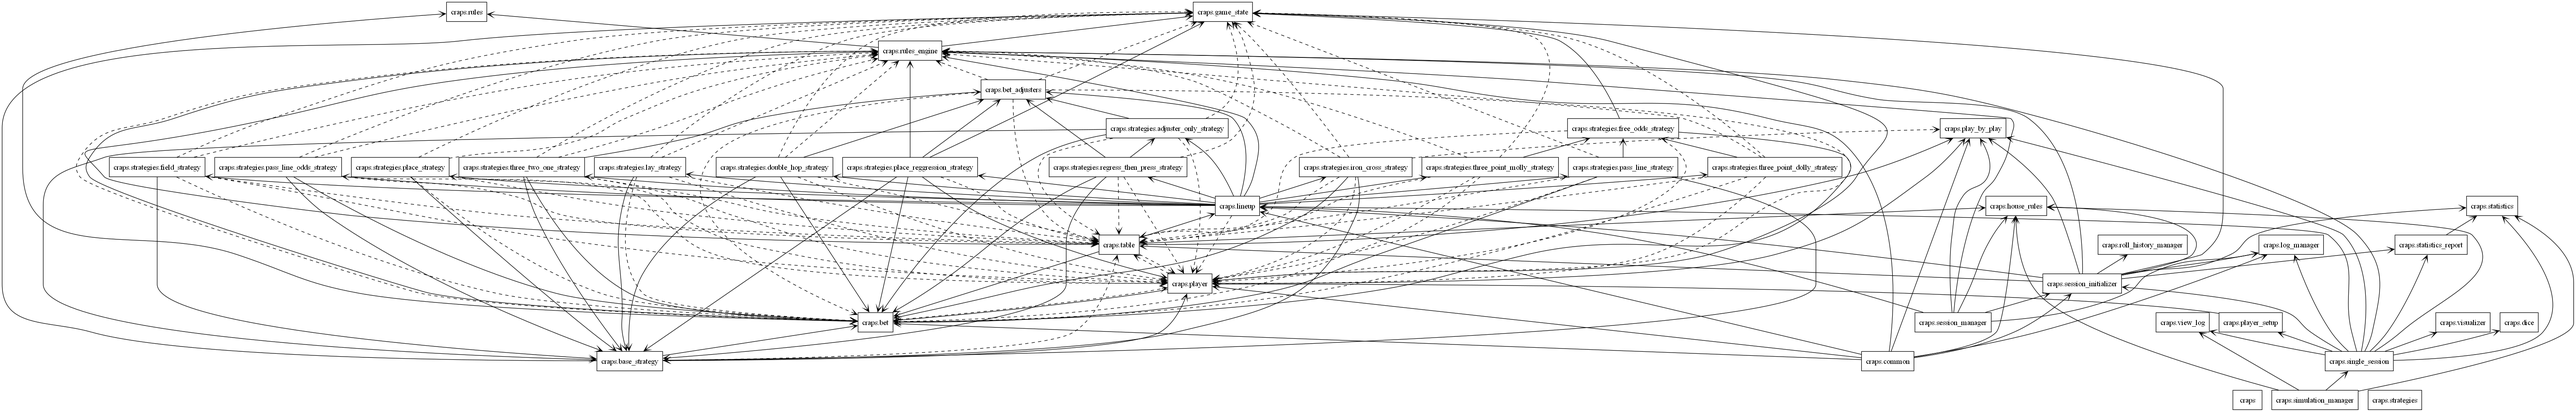
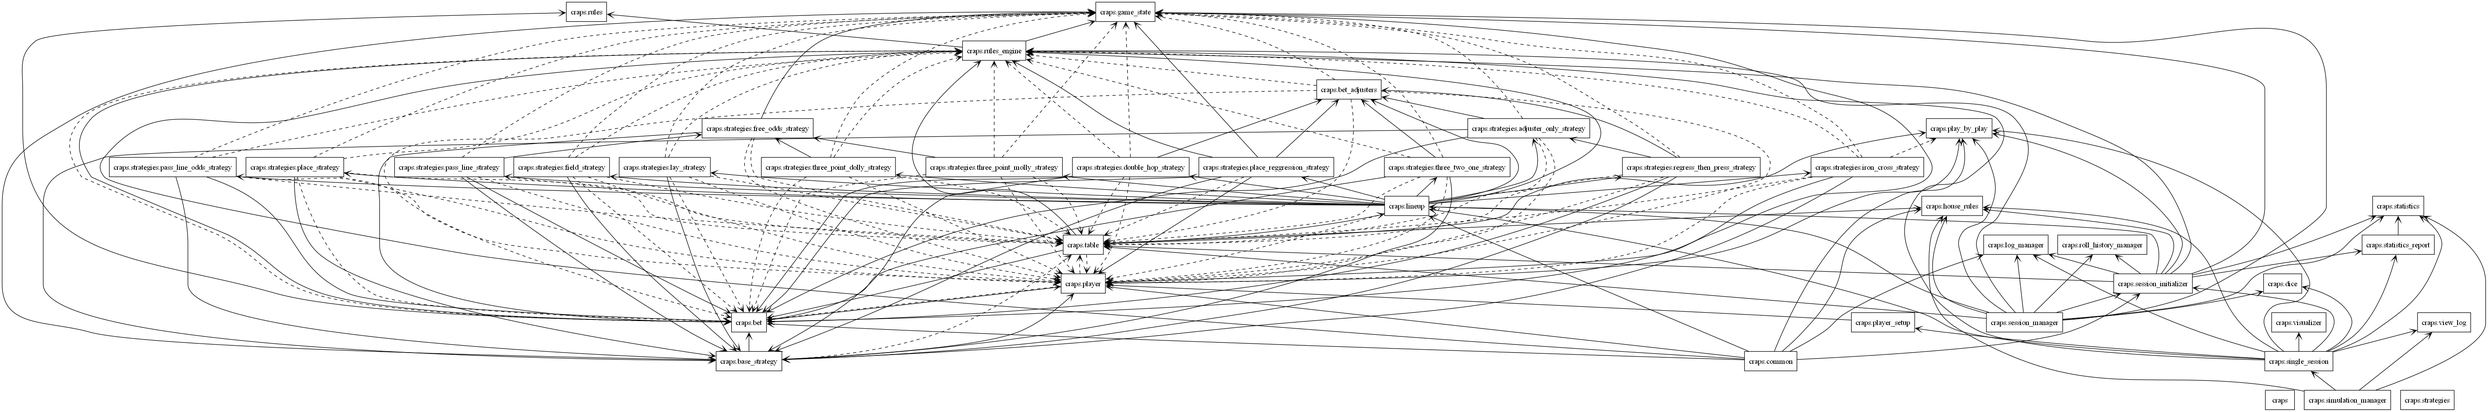
Session Manager Initial Commit & Test

diff --git a/craps/session_manager.py b/craps/session_manager.py
@@ -1,0 +1,83 @@
+from typing import Optional, Any
+from config import HOUSE_RULES, DICE_TEST_PATTERNS
+from craps.house_rules import HouseRules
+from craps.log_manager import LogManager
+from craps.play_by_play import PlayByPlay
+from craps.rules_engine import RulesEngine
+from craps.session_initializer import InitializeSession
+from craps.lineup import PlayerLineup
+from craps.dice import Dice
+from craps.table import Table
+from craps.roll_history_manager import RollHistoryManager
+from craps.statistics import Statistics
+from craps.game_state import GameState
+
+
+class SessionManager:
+    def __init__(self) -> None:
+        self.house_rules: Optional[HouseRules] = None
+        self.table: Optional[Table] = None
+        self.roll_history_manager: Optional[RollHistoryManager] = None
+        self.log_manager: Optional[LogManager] = None
+        self.play_by_play: Optional[PlayByPlay] = None
+        self.rules_engine: Optional[RulesEngine] = None
+        self.stats: Optional[Statistics] = None
+        self.game_state: Optional[GameState] = None
+        self.player_lineup: Optional[PlayerLineup] = None
+        self.dice: Optional[Dice] = None
+        self.initialized: bool = False
+
+    def setup_session(
+        self,
+        house_rules_dict: Optional[dict[str, Any]] = None,
+        num_shooters: int = 10,
+        num_players: int = 0,
+        session_mode: str = "interactive",
+        dice_mode: str = "live",
+        roll_history_file: Optional[str] = None,
+        pattern_name: Optional[str] = None
+    ) -> bool:
+        """
+        Initializes core game components and prepares the session.
+        """
+        self.house_rules = HouseRules(house_rules_dict or HOUSE_RULES)
+        self.play_by_play = PlayByPlay()
+        self.log_manager = LogManager()
+        self.rules_engine = RulesEngine()
+        self.player_lineup = PlayerLineup(self.house_rules, None, self.play_by_play, self.rules_engine)
+
+        # ✅ Initialize Dice
+        if dice_mode == "history" and roll_history_file:
+            self.dice = Dice(roll_history_file)
+        else:
+            self.dice = Dice()
+            if dice_mode == "pattern" and pattern_name in DICE_TEST_PATTERNS:
+                self.dice.forced_rolls.extend(DICE_TEST_PATTERNS[pattern_name])
+
+        # ✅ Initialize Session
+        session_initializer = InitializeSession(
+            dice_mode=dice_mode,
+            house_rules=self.house_rules,
+            play_by_play=self.play_by_play,
+            log_manager=self.log_manager,
+            rules_engine=self.rules_engine,
+            player_lineup=self.player_lineup
+        )
+
+        session_data = session_initializer.prepare_session(num_shooters, num_players)
+
+        if session_data is None:
+            return False
+
+        (
+            self.house_rules,
+            self.table,
+            self.roll_history_manager,
+            self.log_manager,
+            self.play_by_play,
+            self.stats,
+            self.game_state
+        ) = session_data
+
+        self.initialized = True
+        return True

diff --git a/tests/test_session_manager.py b/tests/test_session_manager.py
@@ -1,0 +1,20 @@
+import sys
+import os
+sys.path.insert(0, os.path.abspath(os.path.join(os.path.dirname(__file__), '..')))
+from craps.session_manager import SessionManager
+
+def test_basic_session_setup():
+    print("\n🔧 Testing SessionManager setup...")
+    session_mgr = SessionManager()
+    success = session_mgr.setup_session(num_shooters=3)
+
+    if success:
+        print("✅ Session initialized successfully!")
+        print(f"House Rules: Table Min = ${session_mgr.house_rules.table_minimum}, Max = ${session_mgr.house_rules.table_maximum}")
+        print(f"Game initialized with table: {bool(session_mgr.table)}, stats: {bool(session_mgr.stats)}")
+    else:
+        print("❌ Session initialization failed.")
+
+
+if __name__ == "__main__":
+    test_basic_session_setup()
